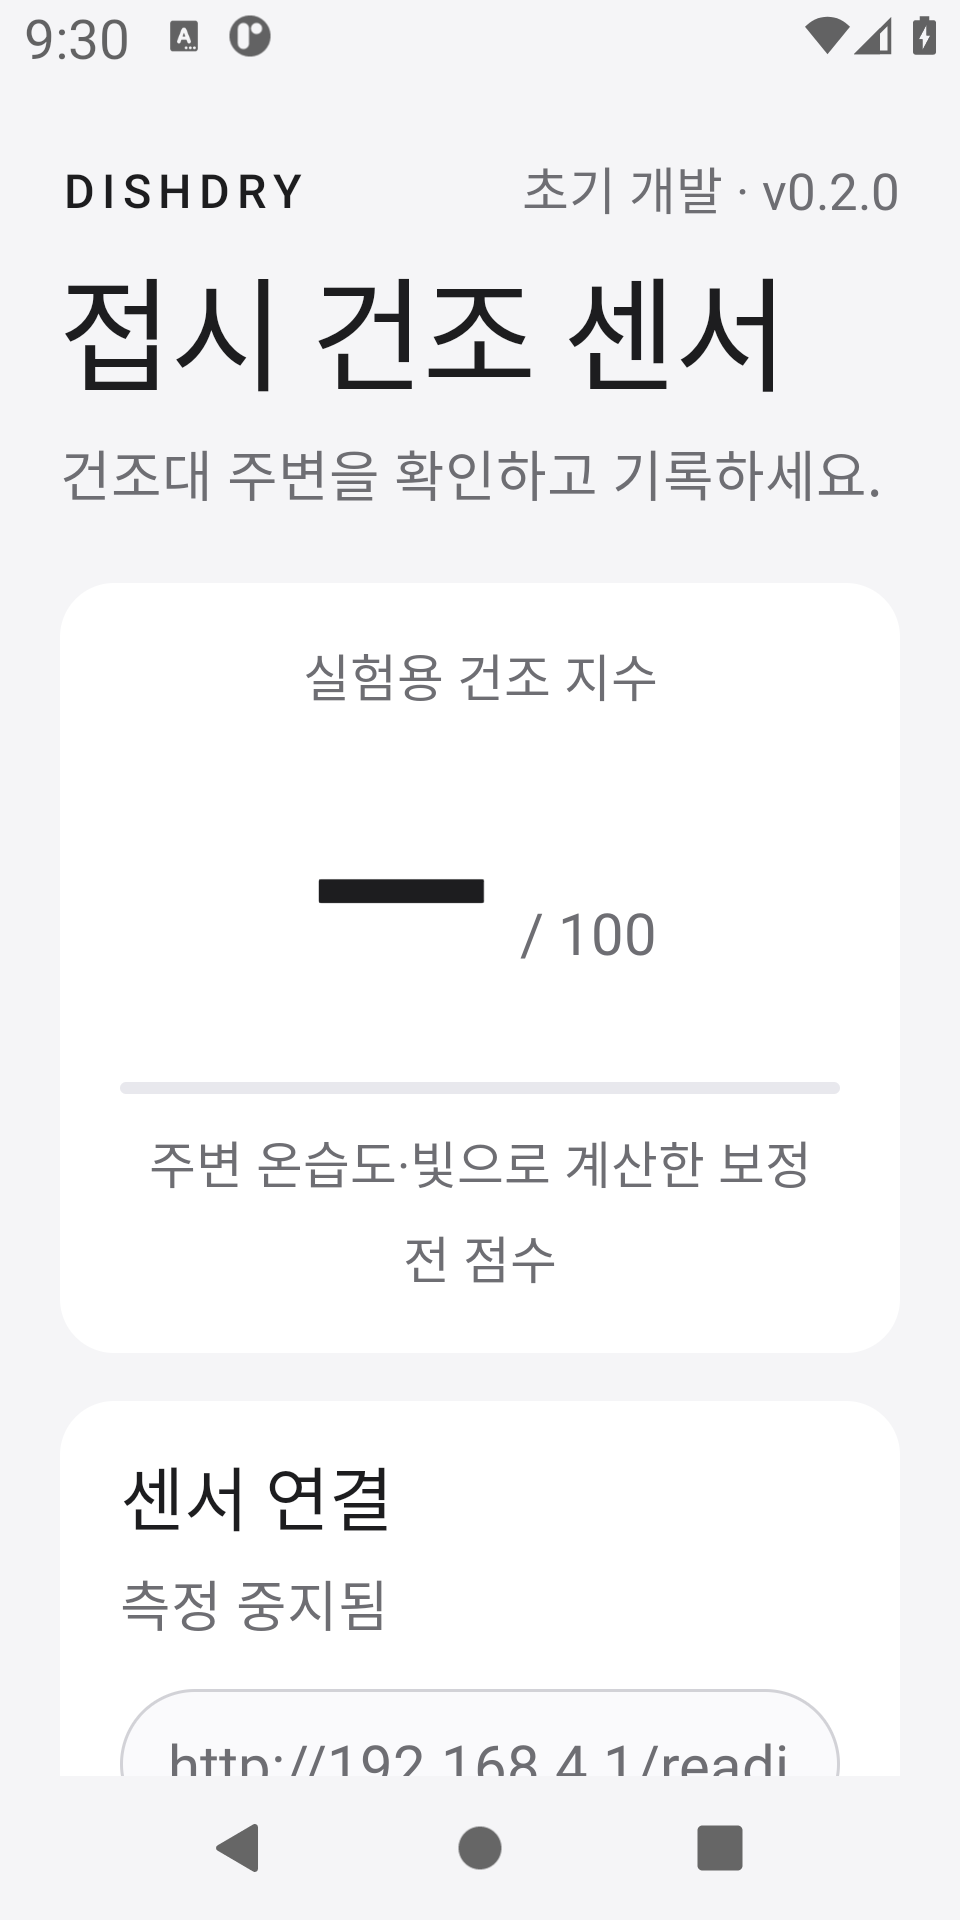
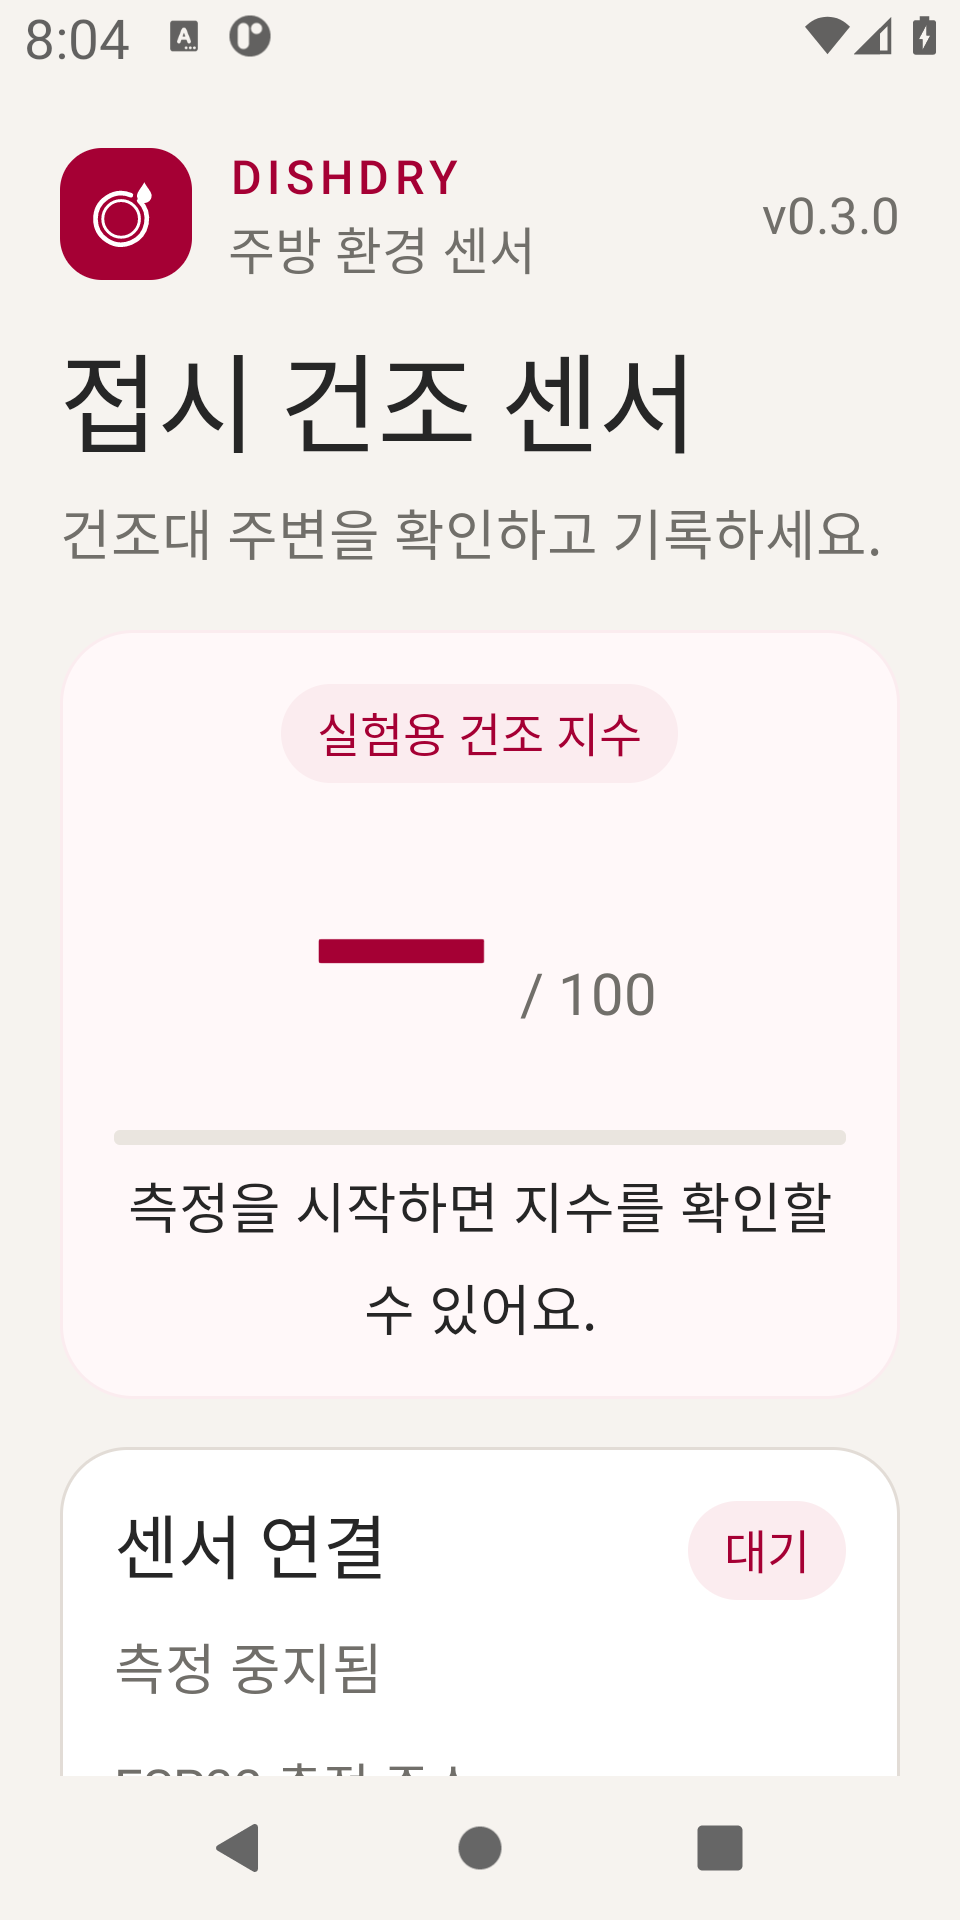
docs: publish verified red dashboard screenshots and visuals

diff --git a/docs/RUN_LOG.md b/docs/RUN_LOG.md
@@ -69,7 +69,7 @@ LG AX · 키친에서 치킨먹기 / 황대겸
 
 단위 테스트는 외부 값 만료, 측정 중지·재시작 시 값 초기화, 비정상 휴대폰 값 제외, 주소 검사, CSV 빈 필드·소수점·원본 유지·손상 행 처리·요약 갱신을 확인한다. 첫 테스트 실행에서 지수 반올림 예시의 기대값을 잘못 적은 항목 하나가 실패했으며, 계산 결과 57로 고친 뒤 모두 통과했다.
 
-[원문 빌드·테스트 출력](logs/2026-10-10-v0.2.0-checks.txt), [원문 실행 결과와 내부 CSV](logs/2026-10-10-v0.2.0-android-emulator.txt), [실행 캡처 8장](images/screenshots). 화면은 APK 원본이며 구성 그림·시나리오와 구분한다. 센서 기록은 에뮬레이터의 가상 움직임 값이다. 실물 ESP32는 연결하지 않았다.
+[원문 빌드·테스트 출력](logs/2026-10-10-v0.2.0-checks.txt), [원문 실행 결과와 내부 CSV](logs/2026-10-10-v0.2.0-android-emulator.txt), [당시 실행 캡처 8장](https://github.com/unknownamed/lgax-kitchen-sensor-android/tree/0141018/docs/images/screenshots). 화면은 APK 원본이며 구성 그림·시나리오와 구분한다. 센서 기록은 에뮬레이터의 가상 움직임 값이다. 실물 ESP32는 연결하지 않았다.
 
 ## 2026-10-10 · v0.2.1 연결 오류와 재시도 안내
 
@@ -96,6 +96,34 @@ LG AX · 키친에서 치킨먹기 / 황대겸
 구성 목업·4컷 시나리오·SVG 와이어프레임의 자리 표시를 이해하기 쉬운 예시 수치로 바꿨다. 온도 25°C, 습도 50%, 빛 ADC 1000을 기존 계산식에 넣으면 약 57.44이므로 정수 지수는 57로 맞췄다. 휴대폰 조도 320 lx, 움직임 0.12 m/s², 기록 3개와 표시 시각도 가상 예시다. 각 그림과 README에 예시 데이터임을 표시했다.
 
 SVG 문법과 렌더링을 확인하고, 두 PNG의 화면 수치와 예시 표시를 확인했다. 기존 실제 실행 캡처·센서 기록·원문 검증 로그는 변경하지 않았다. 이번 변경은 그림과 설명 문서에 한정되며 앱 코드·펌웨어의 새 빌드나 실물 측정을 수행한 기록이 아니다.
+
+## 2026-10-10 · v0.3.0 앱 아이콘과 붉은색 화면
+
+접시와 물방울을 조합한 자체 적응형 앱 아이콘을 추가했다. 둥근 아이콘 마스크와 Android 13 단색 아이콘 리소스도 포함한다. LG 공식 색상 가이드의 LG Red `#A50034`와 Active Red `#FD312E`를 참고해 버튼·지수·진행 표시를 바꾸고, 따뜻한 회색 바탕과 흰색 센서 카드로 정리했다.
+
+연결 상태 배지, 측정 전·외부 센서 대기·휴대폰 센서만 사용하는 상태의 지수 설명, 입력칸 레이블과 예시 주소를 추가했다. 큰 글자에서도 헤더의 설명이 길어지지 않도록 줄였다. 미사용 문자열을 제거하고, 입력칸의 힌트와 접근성 레이블이 중복되지 않도록 수정했다.
+
+검증 대상: `ffabceb`, v0.3.0. [빌드 결과](https://github.com/unknownamed/lgax-kitchen-sensor-android/actions/runs/38035962114). 단위 테스트 20개가 실패·오류·생략 없이 통과했고, APK 빌드와 lint를 완료했다. lint는 오류 0개, 경고 3개다. 남은 경고는 Android 대상 버전, 백업 규칙 설정, 루트 배경 겹침이다. [결과 원문](logs/2026-10-10-v0.3.0-design-checks.txt).
+
+첫 [에뮬레이터 실행](https://github.com/unknownamed/lgax-kitchen-sensor-android/actions/runs/38034770246)은 측정·기록·CSV 저장과 취소·재시작까지 진행했으나, 320dp·130% 글자 크기 확인에서 자동 스크롤 횟수가 부족해 기록 버튼을 찾지 못했다. 검증 도구의 스크롤 한도를 늘리고 목표가 보이지 않으면 명시적으로 실패하도록 수정했다.
+
+수정 뒤 [에뮬레이터 실행](https://github.com/unknownamed/lgax-kitchen-sensor-android/actions/runs/38035962265)은 통과했다. Android API 30, Pixel 2 화면 프로필을 사용했다. 원본 캡처 확인에서 확대 화면의 내보내기 버튼 아래쪽이 잘린 것을 발견해, 화면 영역 안쪽 여백까지 확인하는 캡처 조건을 추가했다.
+
+최종 [재실행과 캡처](https://github.com/unknownamed/lgax-kitchen-sensor-android/actions/runs/38036373406), 대상 `fb59019`도 통과했다. 320dp·130% 글자 크기의 기록 개수·기록 버튼·내보내기 버튼이 실제 앱 화면 영역 안쪽에 모두 들어오는 것을 XML 위치와 원본 캡처로 확인했다. 아래 표와 현재 캡처 9장은 이 최종 실행 결과다.
+
+| 확인한 항목 | 결과 |
+| --- | --- |
+| APK 설치·앱 시작, 아이콘을 포함한 헤더 | 성공 |
+| 대기·휴대폰 측정 상태 배지와 지수 안내 | 성공 |
+| 측정 시작·중지와 가상 휴대폰 센서 기록 | 성공, CSV 1행 |
+| CSV 저장과 내보낸 파일 내용 일치 | 성공 |
+| 저장 취소·앱 재시작 후 내부 기록 유지 | 성공 |
+| 320dp 화면·130% 글자 크기의 기록·내보내기 버튼 | 성공 |
+| Android Runtime 치명적 예외 | 없음 |
+
+[원문 결과와 CSV](logs/2026-10-10-v0.3.0-android-emulator.txt), [현재 실행 캡처 9장](images/screenshots). 이전 v0.2.0 화면은 [해당 커밋의 원본](https://github.com/unknownamed/lgax-kitchen-sensor-android/tree/0141018/app)과 [캡처](https://github.com/unknownamed/lgax-kitchen-sensor-android/tree/0141018/docs/images/screenshots)에 보관되어 있다.
+
+구성 목업·시나리오·와이어프레임도 새 디자인으로 맞췄다. 그림의 수치는 예시 데이터로 유지하며 실제 센서 측정이나 앱 실행 기록을 뜻하지 않는다. 실물 ESP32 연결과 Android 13 이상 기기의 테마 아이콘 모양은 기기에서 확인할 작업으로 남겼다.
 
 ## 실물 ESP32 실행 기록 · 확인 대기
 

diff --git a/README.md b/README.md
@@ -6,21 +6,25 @@
 
 주방 UX/UI 시나리오를 소재로 만드는 작은 안드로이드 앱입니다. 접시 건조대 옆에 온습도·빛 센서를 붙이고, 주변 수치만으로 건조 정도를 대략 계산해 보려는 초기 구현입니다.
 
+<img src="docs/images/app-icon.png" width="88" alt="붉은 바탕의 접시와 물방울 앱 아이콘">
+
+v0.3.0은 LG Red와 따뜻한 회색을 참고한 화면, 자체 접시·물방울 아이콘, 연결 상태 배지와 센서별 카드를 사용합니다. [화면 디자인 기준](docs/DESIGN_NOTES.md).
+
 ![접시 건조대의 온습도·빛 센서, ESP32 보드와 새 Android 화면 구성 개념도](docs/images/dishdry-sensor-sketch.png)
 
-*접시 건조대 옆 센서와 v0.2.0 앱을 연결하는 구성 목업. 화면 수치는 예시 데이터이며, 실물 장치 실행 사진이 아닙니다.*
+*접시 건조대 옆 센서와 v0.3.0 앱을 연결하는 구성 목업. 화면 수치는 예시 데이터이며, 실물 장치 실행 사진이 아닙니다.*
 
 ## 앱 실제 실행 화면
 
-v0.2.0 APK를 Android API 30 에뮬레이터에서 실행한 원본 캡처입니다. 흰색 카드, 연회색 바탕, 파란색 캡슐 버튼과 큰 지수를 적용했습니다. ESP32는 연결하지 않았고, 기록 1개는 에뮬레이터의 가상 휴대폰 센서 값으로 저장한 것입니다.
+v0.3.0 APK를 Android API 30 에뮬레이터에서 실행한 원본 캡처입니다. 자체 앱 아이콘, 붉은 버튼과 지수, 따뜻한 회색 바탕, 상태 배지와 흰색 센서 카드를 적용했습니다. ESP32는 연결하지 않았고, 기록 1개는 에뮬레이터의 가상 휴대폰 센서 값으로 저장한 것입니다.
 
 | 연결 대기 | 현재 값 기록 | 시스템 CSV 저장 |
 | --- | --- | --- |
 | <img src="docs/images/screenshots/01-overview.png" width="230" alt="실제 앱 연결 대기 화면"> | <img src="docs/images/screenshots/03-record-saved.png" width="230" alt="실제 앱에서 가상 휴대폰 센서 값 한 건을 기록한 화면"> | <img src="docs/images/screenshots/04-system-export.png" width="230" alt="Android 시스템 파일 선택기의 CSV 저장 화면"> |
 
-앱 실행, 현재 값 기록, CSV 실제 파일 내용 일치, 저장·취소 후 앱 복귀, 재시작 후 기록 유지, 320dp 너비·130% 글자 크기를 확인했습니다. [전체 실행 캡처 8장](docs/images/screenshots), [실행 결과 원문](docs/logs/2026-10-10-v0.2.0-android-emulator.txt), [실행 일지](docs/RUN_LOG.md).
+앱 실행, 현재 값 기록, CSV 실제 파일 내용 일치, 저장·취소 후 앱 복귀, 재시작 후 기록 유지, 320dp 너비·130% 글자 크기를 확인했습니다. [전체 실행 캡처 9장](docs/images/screenshots), [실행 결과 원문](docs/logs/2026-10-10-v0.3.0-android-emulator.txt), [실행 일지](docs/RUN_LOG.md).
 
-화면의 색상과 여백은 내려받은 [Apple 웹디자인 분석 DESIGN.md](DESIGN.md)를 참고했습니다. 공식 Apple 디자인 문서는 아니며, Android 기본 글꼴과 위젯에 맞게 적용했습니다. [적용 기준과 출처](docs/DESIGN_NOTES.md).
+현재 화면은 [LG 공식 디자인 시스템](https://www.lg.com/global/our-identity/design-system/)의 둥근 형태와 [공식 색상 가이드](https://www.lg.com/us/wonderbox/Wonderbox-GuidelinesSpecs.pdf)를 참고해 Android 기본 글꼴과 위젯에 맞게 적용했습니다. 이전 [Apple 웹디자인 분석 DESIGN.md](DESIGN.md)는 참고 기록으로 보관합니다. [적용 기준과 출처](docs/DESIGN_NOTES.md).
 
 ## 주제의 흐름
 

diff --git a/docs/SPEC.md b/docs/SPEC.md
@@ -1,4 +1,4 @@
-# 접시 건조 센서 앱 · 간단 명세 v0.2.1
+# 접시 건조 센서 앱 · 간단 명세 v0.3.0
 
 LG AX · 키친에서 치킨먹기
 
@@ -24,7 +24,7 @@ Android 8.0 이상을 기준으로 한다. ESP32-C3 등 다른 보드는 핀 배
 | ESP32 주소 입력 | 전체 측정 URL을 입력. 빈칸이면 휴대폰 센서만 사용 |
 | 측정 시작 | 휴대폰 센서 등록, 외부 주소가 있으면 HTTP 요청 시작 |
 | 측정 중지 | 센서 등록과 반복 요청을 중지하고 표시값을 미측정으로 변경 |
-| 연결 상태 | 연결 중, 마지막 수신 시각, 실패 원인·다음 요청 대기·다시 연결 중을 표시 |
+| 연결 상태 | 짧은 상태 배지와 연결 중·마지막 수신 시각·실패 원인·자동 재연결 안내 표시 |
 | 외부 센서 수치 | 주변 온도 °C, 습도 %, 빛 ADC 0~4095 |
 | 휴대폰 센서 수치 | 조도 lx, 중력 크기 차이로 계산한 움직임 m/s² |
 | 건조 지수 | 외부 센서 값으로 계산한 임시 점수 0~100 |
@@ -34,7 +34,7 @@ Android 8.0 이상을 기준으로 한다. ESP32-C3 등 다른 보드는 핀 배
 
 측정 중에는 주소 입력을 잠근다. 파일 선택기를 포함해 앱 화면을 벗어나면 측정을 중지한다. 돌아오면 다시 시작 버튼을 눌러야 한다.
 
-화면은 지수 → 연결 → 외부 센서 → 휴대폰 센서 → 기록 순서다. 연회색 바탕과 흰색 카드, 파란 캡슐 버튼을 사용한다. [디자인 기준과 파일별 책임](DESIGN_NOTES.md)에 출처와 Android 적용 내용을 적었다.
+화면은 지수 → 연결 → 외부 센서 → 휴대폰 센서 → 기록 순서다. 따뜻한 회색 바탕과 흰색 카드, 붉은 캡슐 버튼을 사용한다. 접시·물방울 자체 심볼을 적응형 앱 아이콘과 상단에 적용했다. 센서값은 각각의 칸으로 구분하고 주소 입력 레이블과 예시 URL을 항상 보여 준다. [디자인 기준과 파일별 책임](DESIGN_NOTES.md)에 출처와 Android 적용 내용을 적었다.
 
 ## 센서 연결과 통신
 

diff --git a/docs/TODO.md b/docs/TODO.md
@@ -22,6 +22,7 @@ LG AX · 키친에서 치킨먹기 / 황대겸
 - [x] 측정값 만료·주소 검사·CSV 기록의 단위 테스트
 - [x] 구성 그림·시나리오·와이어프레임을 새 화면으로 교체
 - [x] 구성 목업·시나리오·와이어프레임에 일관된 예시 수치와 예시 데이터 표시
+- [x] 접시·물방울 앱 아이콘과 LG 색상 기반 화면 적용
 
 초기 앱과 펌웨어의 빌드 결과: [GitHub Actions](https://github.com/unknownamed/lgax-kitchen-sensor-android/actions/runs/37986890214). 위 체크는 코드 구현과 빌드 기준이다. 실제 센서 연결과 실사용 검증은 아래에 남겨 둔다.
 
@@ -33,7 +34,7 @@ LG AX · 키친에서 치킨먹기 / 황대겸
 - [x] 응답 오류 종류별로 짧은 안내 정리
 - [x] 주소 입력 안내와 320dp 너비·130% 글자 크기에서 기록 버튼 확인
 - [ ] 배선 안내를 더 보기 쉽게 정리
-- [ ] lint의 미사용 리소스와 주소 입력 접근성 안내 정리
+- [x] 미사용 문자열과 주소 입력 접근성 레이블 정리
 
 v0.1.1에서 연결·지수·센서·기록 카드와 버튼 스타일을 추가했다. 데이터가 없으면 기록 버튼을, 저장된 기록이 없으면 내보내기 버튼을 비활성화한다.
 
@@ -51,5 +52,6 @@ v0.2.1에서 시간 초과·주소·센서 응답 오류 안내와 다음 요청
 - [ ] 앱을 나갔다 돌아오면 측정이 중지되어 있는지 확인
 - [ ] 건조대 위치·환기·접시 재질별로 수치 비교
 - [ ] 임시 점수가 실제 물기와 관련이 있는지 확인
+- [ ] Android 13 이상 기기에서 테마 아이콘의 모양 확인
 
 작업할 때는 남은 작은 항목부터 수정한다. 기기 확인을 하지 않은 항목은 체크하지 않는다.
